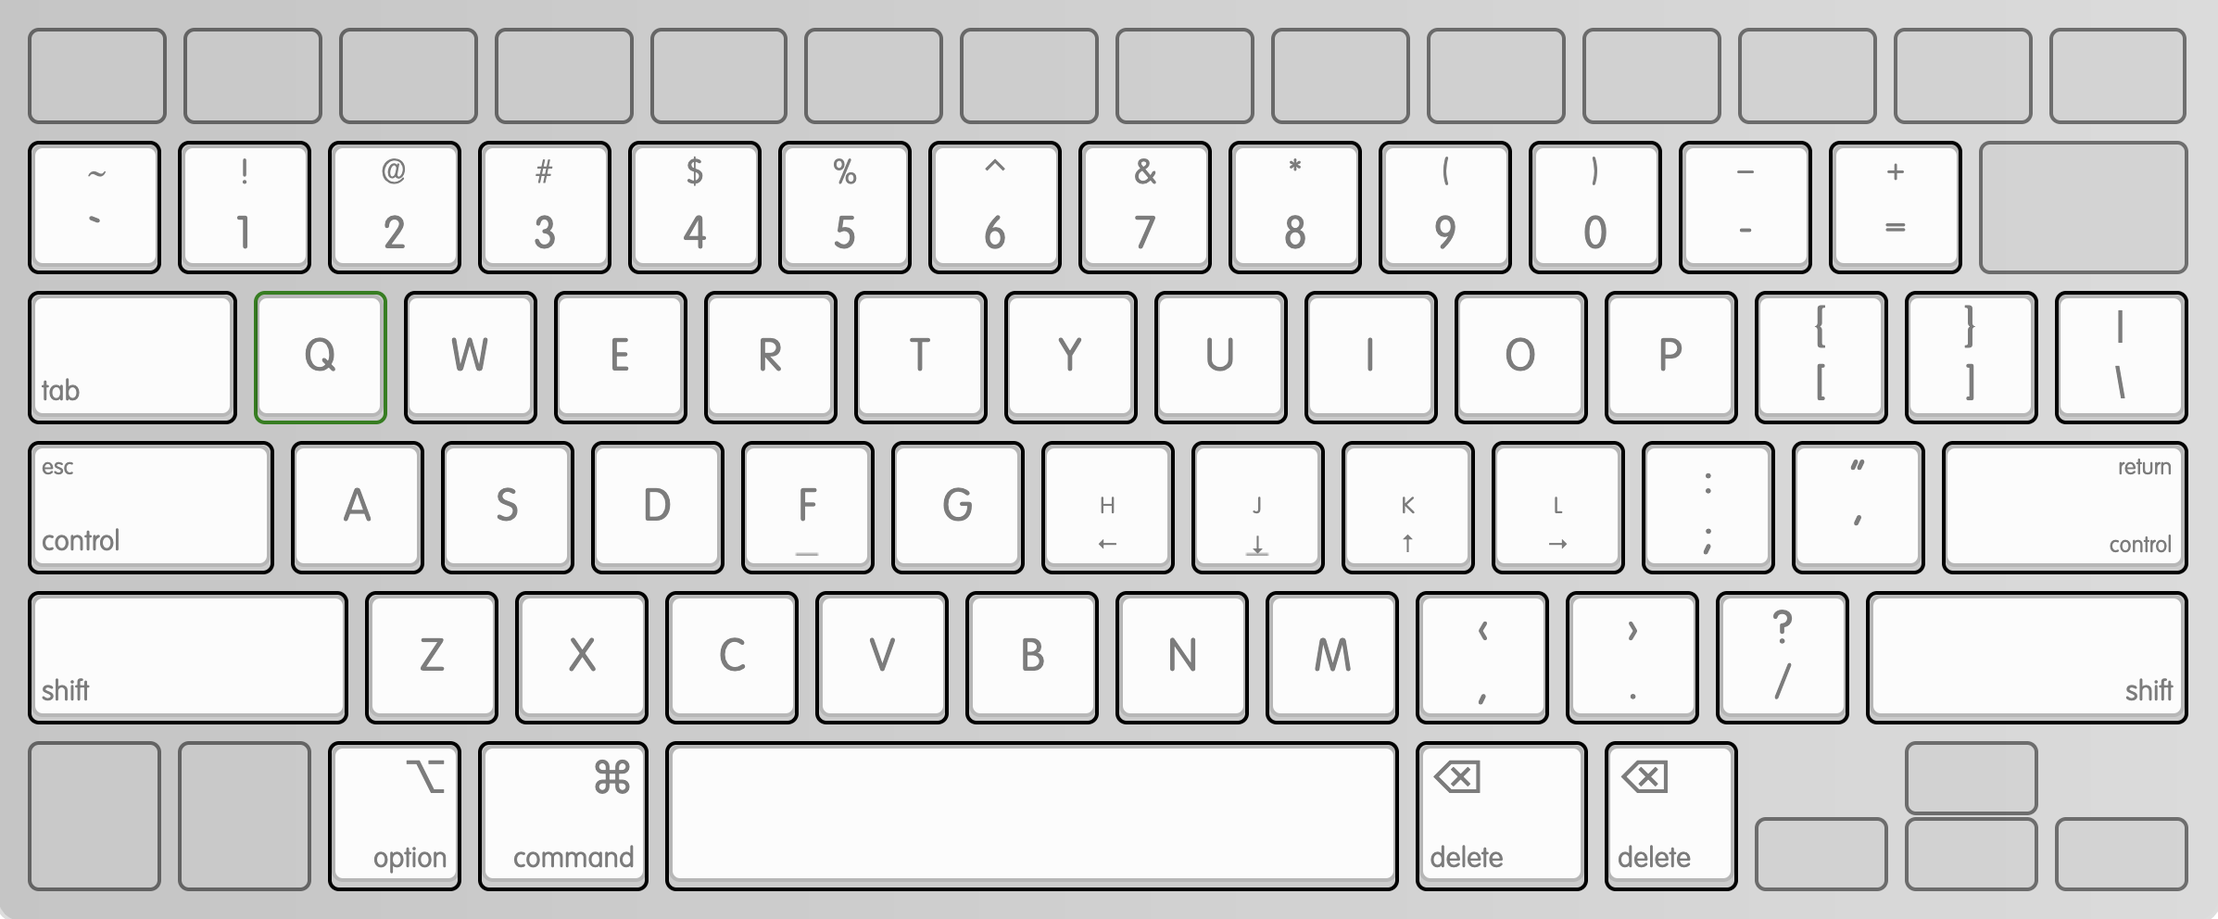
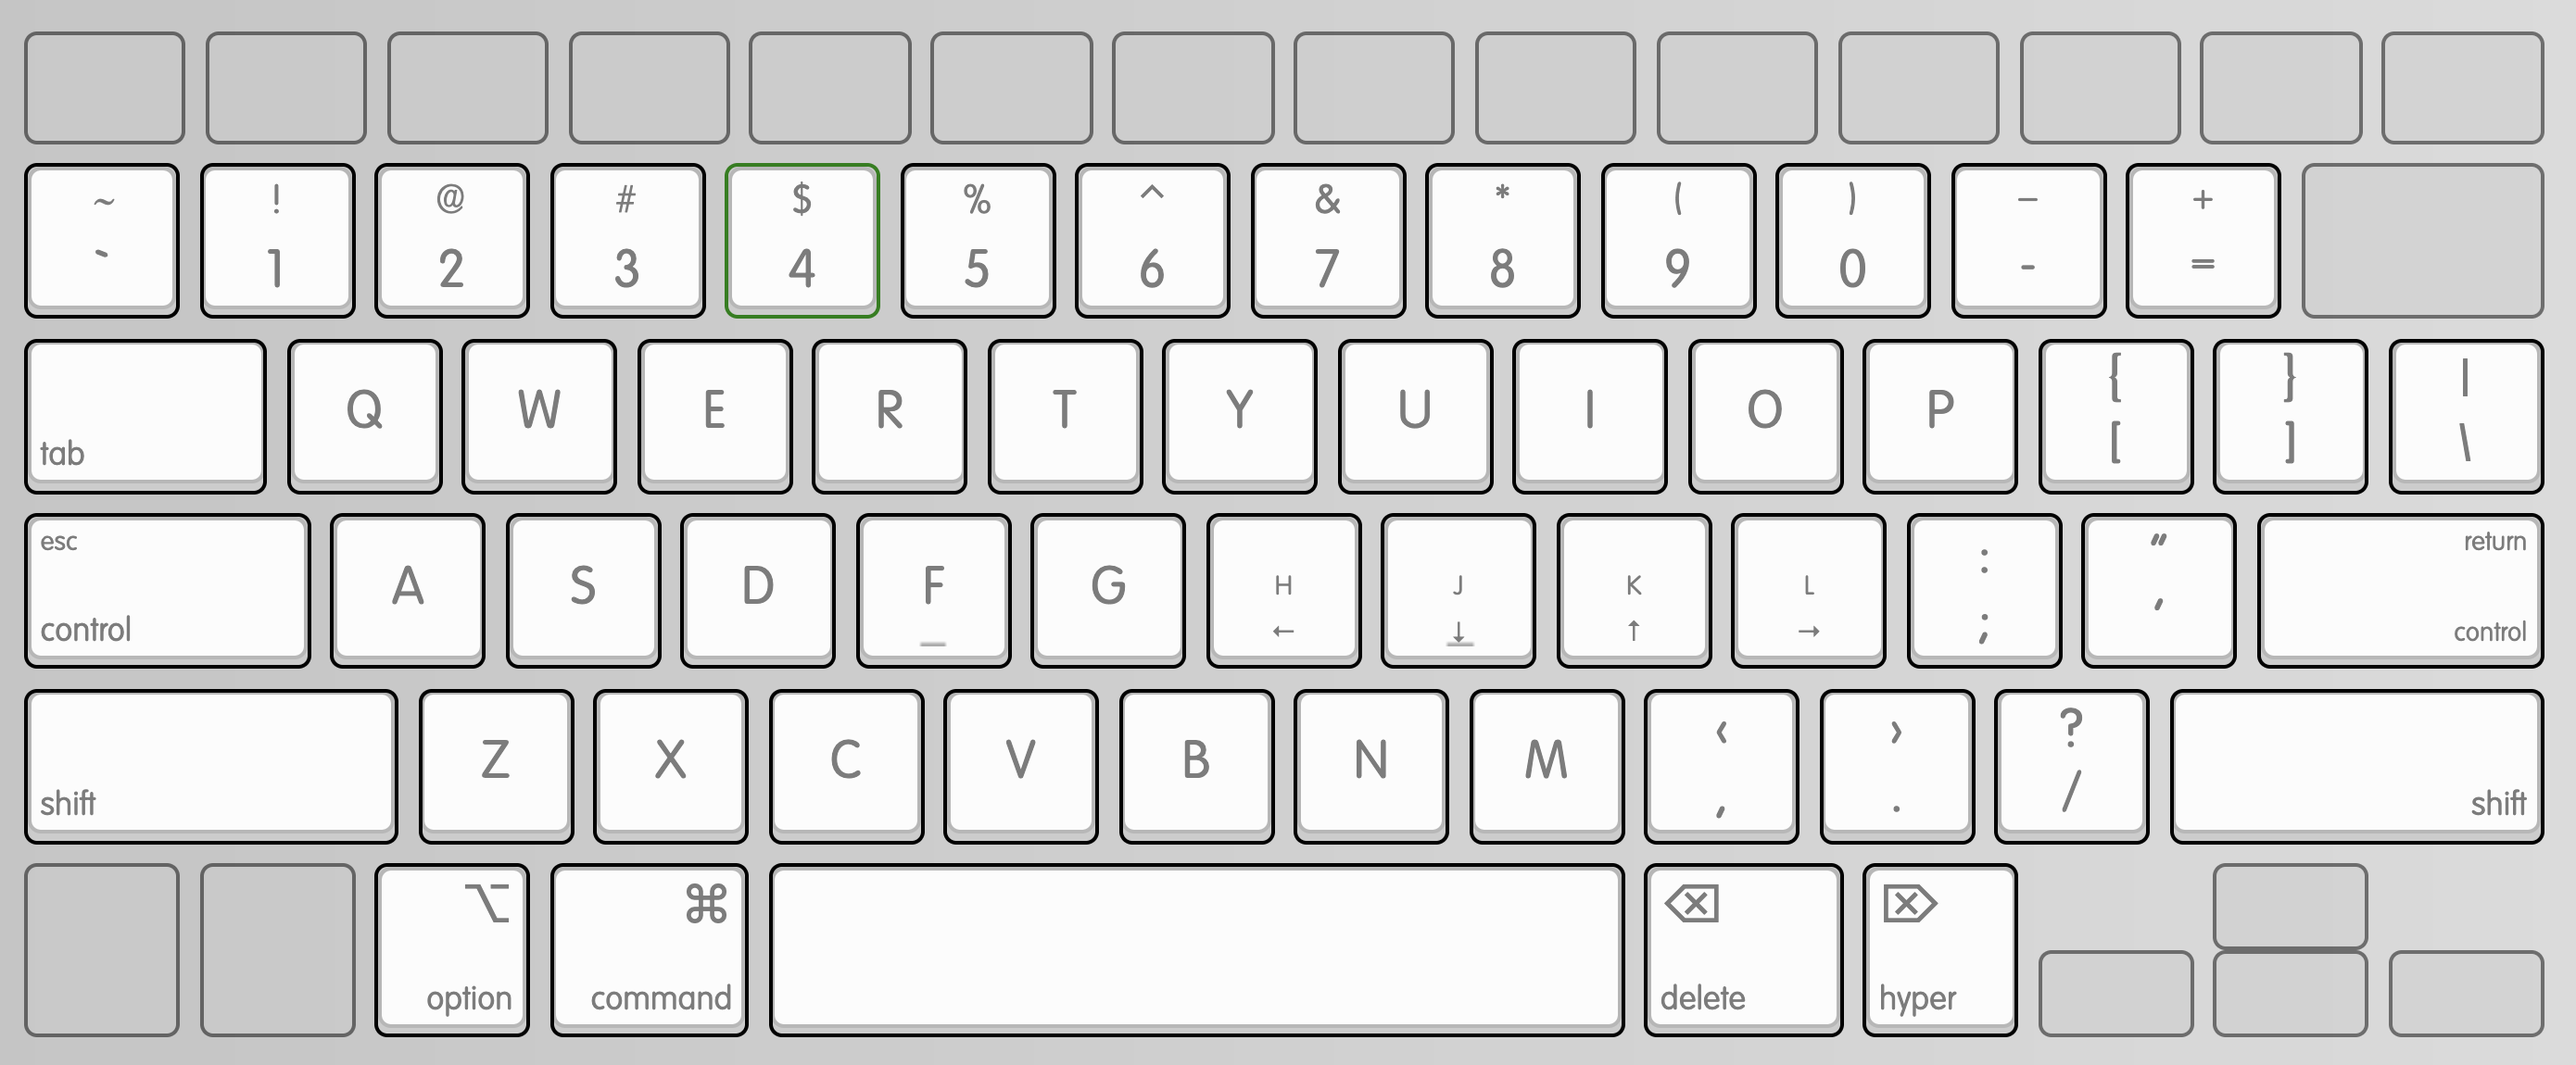
Use right_option as the hyper key

diff --git a/README.md b/README.md
@@ -36,7 +36,7 @@ Below is the adjusted keyboard layout that I'm using:
 
 [![layout](karabiner/apple_keyboard.png)][1]
 
-[1]: http://www.keyboard-layout-editor.com/##@_backcolor=%23dbdbdb&name=Apple%20Wireless%20Keyboard&author=Alistair%20Calder&radii=6px%206px%2012px%2012px%20%2F%2F%2018px%2018px%2012px%2012px&css=%2F@import%20url(http%2F:%2F%2F%2F%2Ffonts.googleapis.com%2F%2Fcss%3Ffamily%2F=Varela+Round)%2F%3B%0A%0A%23keyboard-bg%20%7B%20%0A%20%20%20%20background-image%2F:%20linear-gradient(to%20bottom,%20rgba(0,0,0,0.5)%200%25,%20rgba(0,0,0,0)%204%25,%20rgba(255,255,255,0.3)%206%25,%20rgba(0,0,0,0)%2010%25),%20%0A%20%20%20%20%20%20%20%20%20%20%20%20%20%20%20%20%20%20%20%20%20%20linear-gradient(to%20right,%20rgba(0,0,0,0.1)%200%25,%20rgba(0,0,0,0)%20100%25)%20!important%2F%3B%20%0A%7D%0A%0A.keylabel%20%7B%0A%20%20%20%20font-family%2F:%20'volkswagen%2F_serialregular'%2F%3B%0A%7D%0A%0A%2F%2F*%20Strangely,%20%22Volkswagen%20Serial%22%20doesn't%20have%20a%20tilde%20character%20*%2F%2F%0A.varela%20%7B%20%0A%20%20%20%20font-family%2F:%20'Varela%20Round'%2F%3B%20%0A%20%20%20%20display%2F:%20inline-block%2F%3B%20%0A%20%20%20%20font-size%2F:%20inherit%2F%3B%20%0A%20%20%20%20text-rendering%2F:%20auto%2F%3B%20%0A%20%20%20%20-webkit-font-smoothing%2F:%20antialiased%2F%3B%20%0A%20%20%20%20-moz-osx-font-smoothing%2F:%20grayscale%2F%3B%0A%20%20%20%20transform%2F:%20translate(0,%200)%2F%3B%0A%7D%0A.varela-tilde%2F:after%20%7B%20content%2F:%20%22%5C07e%22%2F%3B%20%7D&pcb:false&plate:false%3B&@_y:0.75&t=%23666666&g:true&p=CHICKLET&a:7&f:2&w:1.0357&h:0.75%3B&=esc&_a:4&fa@:0&:0&:0&:1%3B&w:1.0357&h:0.75%3B&=%0A%0A%0AF1&_w:1.0357&h:0.75%3B&=%0A%0A%0AF2&_w:1.0357&h:0.75%3B&=%0A%0A%0AF3&_w:1.0357&h:0.75%3B&=%0A%0A%0AF4&_w:1.0357&h:0.75%3B&=%0A%0A%0AF5&_w:1.0357&h:0.75%3B&=%0A%0A%0AF6&_w:1.0357&h:0.75%3B&=%0A%0A%0AF7%0A%0A%0A%0A%0A%0A%3Ci%20class%2F='fa%20fa-backward'%3E%3C%2F%2Fi%3E&_fa@:0&:0&:0&:1&:0&:0&:0&:0&:0&:1%3B&w:1.0357&h:0.75%3B&=%0A%0A%0AF8%0A%0A%0A%0A%0A%0A%3Ci%20class%2F='fa%20fa-play'%3E%3C%2F%2Fi%3E%3Ci%20class%2F='fa%20fa-pause'%3E%3C%2F%2Fi%3E&_fa@:0&:0&:0&:1%3B&w:1.0357&h:0.75%3B&=%0A%0A%0AF9%0A%0A%0A%0A%0A%0A%3Ci%20class%2F='fa%20fa-forward'%3E%3C%2F%2Fi%3E&_w:1.0357&h:0.75%3B&=%0A%0A%0AF10%0A%0A%0A%0A%0A%0A%3Ci%20class%2F='fa%20fa-volume-off'%3E%3C%2F%2Fi%3E&_w:1.0357&h:0.75%3B&=%0A%0A%0AF11%0A%0A%0A%0A%0A%0A%3Ci%20class%2F='fa%20fa-volume-down'%3E%3C%2F%2Fi%3E&_w:1.0357&h:0.75%3B&=%0A%0A%0AF12%0A%0A%0A%0A%0A%0A%3Ci%20class%2F='fa%20fa-volume-up'%3E%3C%2F%2Fi%3E&_a:7&w:1.0357&h:0.75%3B&=%3Ci%20class%2F='fa%20fa-eject'%3E%3C%2F%2Fi%3E%3B&@_y:-0.25&g:false&a:5&f:5&fa@:3%3B%3B&=%3Ci%20class%2F=%22varela%20varela-tilde%22%3E%3C%2F%2Fi%3E%0A%60&=!%0A1&=%2F@%0A2&=%23%0A3&=$%0A4&=%25%0A5&=%E2%8C%83%0A6&=%2F&%0A7&=*%0A8&=(%0A9&=)%0A0&_fa@:3&=undefined%3B%3B&=%E2%80%93%0A-&=+%0A%2F=&_g:true&a:4&f:2&w:1.5%3B&=%0A%0A%0Adelete%3B&@_g:false&w:1.5%3B&=%0Atab&_a:7&f:5%3B&=Q&=W&=E&=R&=T&=Y&=U&=I&=O&=P&_a:5%3B&=%7B%0A%5B&=%7D%0A%5D&=%7C%0A%5C%3B&@_a:4&f:2&fa@:1%3B&w:1.75%3B&=esc%0Acontrol&_a:7&f:5%3B&=A&=S&=D&_n:true%3B&=F&=G&_a:5&fa@:0&:1&:0&:0&:0&:0&:1%3B%3B&=%0A%E2%86%90%0A%0A%0A%0A%0AH&_n:true%3B&=%0A%E2%86%93%0A%0A%0A%0A%0AJ&=%0A%E2%86%91%0A%0A%0A%0A%0AK&_sm=alps%3B&=%0A%E2%86%92%0A%0A%0A%0A%0AL&_f:5%3B&=%2F:%0A%2F%3B&_f:5%3B&=%22%0A'&_a:4&f:2&f2:1&w:1.75%3B&=%0A%0Areturn%0Acontrol%3B&@_f:2&w:2.25%3B&=%0Ashift&_a:7&f:5%3B&=Z&=X&=C&=V&=B&=N&=M&_a:5%3B&=%3C%0A,&=%3E%0A.&=%3F%0A%2F%2F&_a:4&f:2&w:2.25%3B&=%0A%0A%0Ashift%3B&@_g:true&h:1.111%3B&=%0Afn&_fa@:0&:0&:5%3B&h:1.111%3B&=%0A%0A%E2%8C%83%0Acontrol&_g:false&h:1.111%3B&=%0A%0A%E2%8C%A5%0Aoption&_w:1.25&h:1.111%3B&=%0A%0A%E2%8C%98%0Acommand&_a:7&w:5&h:1.111%3B&=&_a:4&fa@:5%3B&w:1.25&h:1.111%3B&=%E2%8C%AB%0Adelete&_h:1.111%3B&=%E2%8C%AB%0Adelete&_x:1&g:true&a:7&f:5&h:0.611%3B&=%E2%86%91%3B&@_y:-0.5&x:11.5&h:0.6111%3B&=%E2%86%90&_h:0.6111%3B&=%E2%86%93&_h:0.6111%3B&=%E2%86%92
+[1]: http://www.keyboard-layout-editor.com/##@_backcolor=%23dbdbdb&name=Apple%20Wireless%20Keyboard&author=Alistair%20Calder&radii=6px%206px%2012px%2012px%20%2F%2F%2018px%2018px%2012px%2012px&css=%2F@import%20url(http%2F:%2F%2F%2F%2Ffonts.googleapis.com%2F%2Fcss%3Ffamily%2F=Varela+Round)%2F%3B%0A%0A%23keyboard-bg%20%7B%20%0A%20%20%20%20background-image%2F:%20linear-gradient(to%20bottom,%20rgba(0,0,0,0.5)%200%25,%20rgba(0,0,0,0)%204%25,%20rgba(255,255,255,0.3)%206%25,%20rgba(0,0,0,0)%2010%25),%20%0A%20%20%20%20%20%20%20%20%20%20%20%20%20%20%20%20%20%20%20%20%20%20linear-gradient(to%20right,%20rgba(0,0,0,0.1)%200%25,%20rgba(0,0,0,0)%20100%25)%20!important%2F%3B%20%0A%7D%0A%0A.keylabel%20%7B%0A%20%20%20%20font-family%2F:%20'volkswagen%2F_serialregular'%2F%3B%0A%7D%0A%0A%2F%2F*%20Strangely,%20%22Volkswagen%20Serial%22%20doesn't%20have%20a%20tilde%20character%20*%2F%2F%0A.varela%20%7B%20%0A%20%20%20%20font-family%2F:%20'Varela%20Round'%2F%3B%20%0A%20%20%20%20display%2F:%20inline-block%2F%3B%20%0A%20%20%20%20font-size%2F:%20inherit%2F%3B%20%0A%20%20%20%20text-rendering%2F:%20auto%2F%3B%20%0A%20%20%20%20-webkit-font-smoothing%2F:%20antialiased%2F%3B%20%0A%20%20%20%20-moz-osx-font-smoothing%2F:%20grayscale%2F%3B%0A%20%20%20%20transform%2F:%20translate(0,%200)%2F%3B%0A%7D%0A.varela-tilde%2F:after%20%7B%20content%2F:%20%22%5C07e%22%2F%3B%20%7D&pcb:false&plate:false%3B&@_y:0.75&t=%23666666&g:true&p=CHICKLET&a:7&f:2&w:1.0357&h:0.75%3B&=esc&_a:4&fa@:0&:0&:0&:1%3B&w:1.0357&h:0.75%3B&=%0A%0A%0AF1&_w:1.0357&h:0.75%3B&=%0A%0A%0AF2&_w:1.0357&h:0.75%3B&=%0A%0A%0AF3&_w:1.0357&h:0.75%3B&=%0A%0A%0AF4&_w:1.0357&h:0.75%3B&=%0A%0A%0AF5&_w:1.0357&h:0.75%3B&=%0A%0A%0AF6&_w:1.0357&h:0.75%3B&=%0A%0A%0AF7%0A%0A%0A%0A%0A%0A%3Ci%20class%2F='fa%20fa-backward'%3E%3C%2F%2Fi%3E&_fa@:0&:0&:0&:1&:0&:0&:0&:0&:0&:1%3B&w:1.0357&h:0.75%3B&=%0A%0A%0AF8%0A%0A%0A%0A%0A%0A%3Ci%20class%2F='fa%20fa-play'%3E%3C%2F%2Fi%3E%3Ci%20class%2F='fa%20fa-pause'%3E%3C%2F%2Fi%3E&_fa@:0&:0&:0&:1%3B&w:1.0357&h:0.75%3B&=%0A%0A%0AF9%0A%0A%0A%0A%0A%0A%3Ci%20class%2F='fa%20fa-forward'%3E%3C%2F%2Fi%3E&_w:1.0357&h:0.75%3B&=%0A%0A%0AF10%0A%0A%0A%0A%0A%0A%3Ci%20class%2F='fa%20fa-volume-off'%3E%3C%2F%2Fi%3E&_w:1.0357&h:0.75%3B&=%0A%0A%0AF11%0A%0A%0A%0A%0A%0A%3Ci%20class%2F='fa%20fa-volume-down'%3E%3C%2F%2Fi%3E&_w:1.0357&h:0.75%3B&=%0A%0A%0AF12%0A%0A%0A%0A%0A%0A%3Ci%20class%2F='fa%20fa-volume-up'%3E%3C%2F%2Fi%3E&_a:7&w:1.0357&h:0.75%3B&=%3Ci%20class%2F='fa%20fa-eject'%3E%3C%2F%2Fi%3E%3B&@_y:-0.25&g:false&a:5&f:5&fa@:3%3B%3B&=%3Ci%20class%2F=%22varela%20varela-tilde%22%3E%3C%2F%2Fi%3E%0A%60&=!%0A1&=%2F@%0A2&=%23%0A3&=$%0A4&=%25%0A5&=%E2%8C%83%0A6&=%2F&%0A7&=*%0A8&=(%0A9&=)%0A0&_fa@:3&=undefined%3B%3B&=%E2%80%93%0A-&=+%0A%2F=&_g:true&a:4&f:2&w:1.5%3B&=%0A%0A%0Adelete%3B&@_g:false&w:1.5%3B&=%0Atab&_a:7&f:5%3B&=Q&=W&=E&=R&=T&=Y&=U&=I&=O&=P&_a:5%3B&=%7B%0A%5B&=%7D%0A%5D&=%7C%0A%5C%3B&@_a:4&f:2&fa@:1%3B&w:1.75%3B&=esc%0Acontrol&_a:7&f:5%3B&=A&=S&=D&_n:true%3B&=F&=G&_a:5&fa@:0&:1&:0&:0&:0&:0&:1%3B%3B&=%0A%E2%86%90%0A%0A%0A%0A%0AH&_n:true%3B&=%0A%E2%86%93%0A%0A%0A%0A%0AJ&=%0A%E2%86%91%0A%0A%0A%0A%0AK&_sm=alps%3B&=%0A%E2%86%92%0A%0A%0A%0A%0AL&_f:5%3B&=%2F:%0A%2F%3B&_f:5%3B&=%22%0A'&_a:4&f:2&f2:1&w:1.75%3B&=%0A%0Areturn%0Acontrol%3B&@_f:2&w:2.25%3B&=%0Ashift&_a:7&f:5%3B&=Z&=X&=C&=V&=B&=N&=M&_a:5%3B&=%3C%0A,&=%3E%0A.&=%3F%0A%2F%2F&_a:4&f:2&w:2.25%3B&=%0A%0A%0Ashift%3B&@_g:true&h:1.111%3B&=%0Afn&_fa@:0&:0&:5%3B&h:1.111%3B&=%0A%0A%E2%8C%83%0Acontrol&_g:false&h:1.111%3B&=%0A%0A%E2%8C%A5%0Aoption&_w:1.25&h:1.111%3B&=%0A%0A%E2%8C%98%0Acommand&_a:7&w:5&h:1.111%3B&=&_a:4&fa@:5%3B&w:1.25&h:1.111%3B&=%E2%8C%AB%0Adelete&_h:1.111%3B&=%E2%8C%A6%0Ahyper&_x:1&g:true&a:7&f:5&h:0.611%3B&=%E2%86%91%3B&@_y:-0.5&x:11.5&h:0.6111%3B&=%E2%86%90&_h:0.6111%3B&=%E2%86%93&_h:0.6111%3B&=%E2%86%92
 
 ## Vim `HJKL` everywhere with [Karabiner](karabiner/.config/karabiner/karabiner.json)
 
